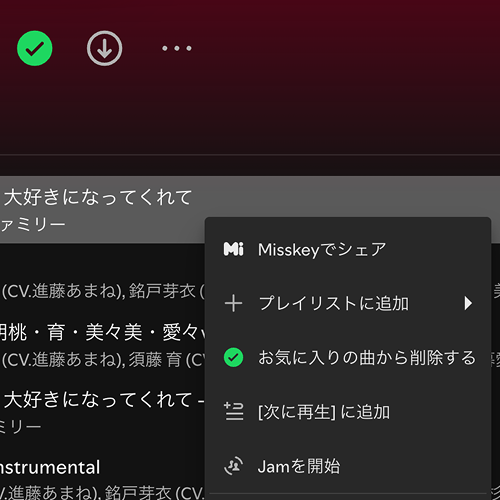
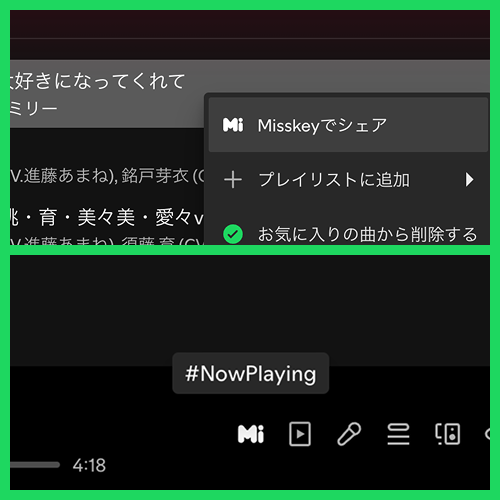
thumbnail変更, READMEにpreview追加

diff --git a/README.md b/README.md
@@ -1,6 +1,8 @@
 # Share on Misskey
 Misskeyへ共有するボタンを追加するSpicetify拡張機能です。
 
+![「Misskeyでシェア」と「#NowPlaying」](./assets/preview.png "←コンテキストメニュー | コントロールパネル→")
+
 ## 機能
 - コンテキストメニューに「Misskeyでシェア」を追加
 - コントロールパネルに「#NowPlaying」を追加
